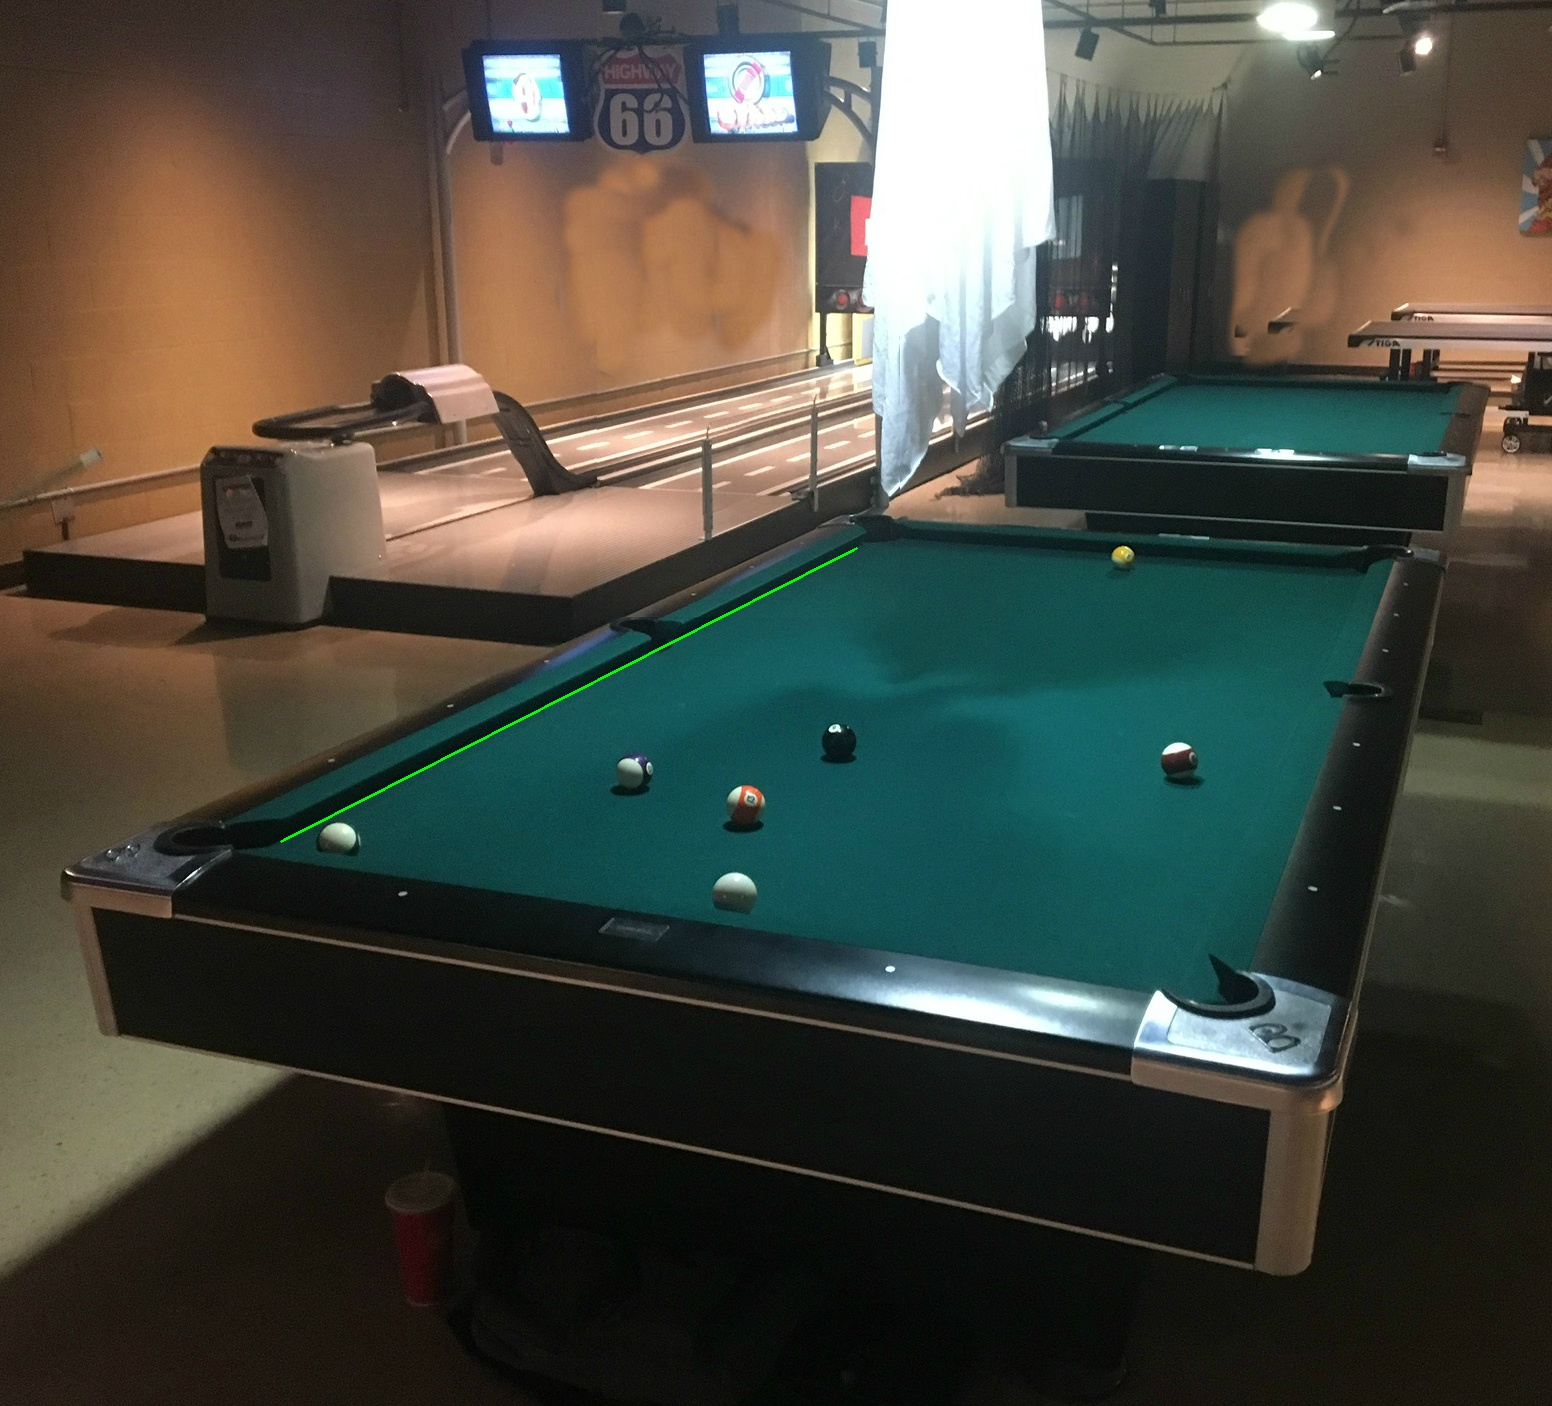
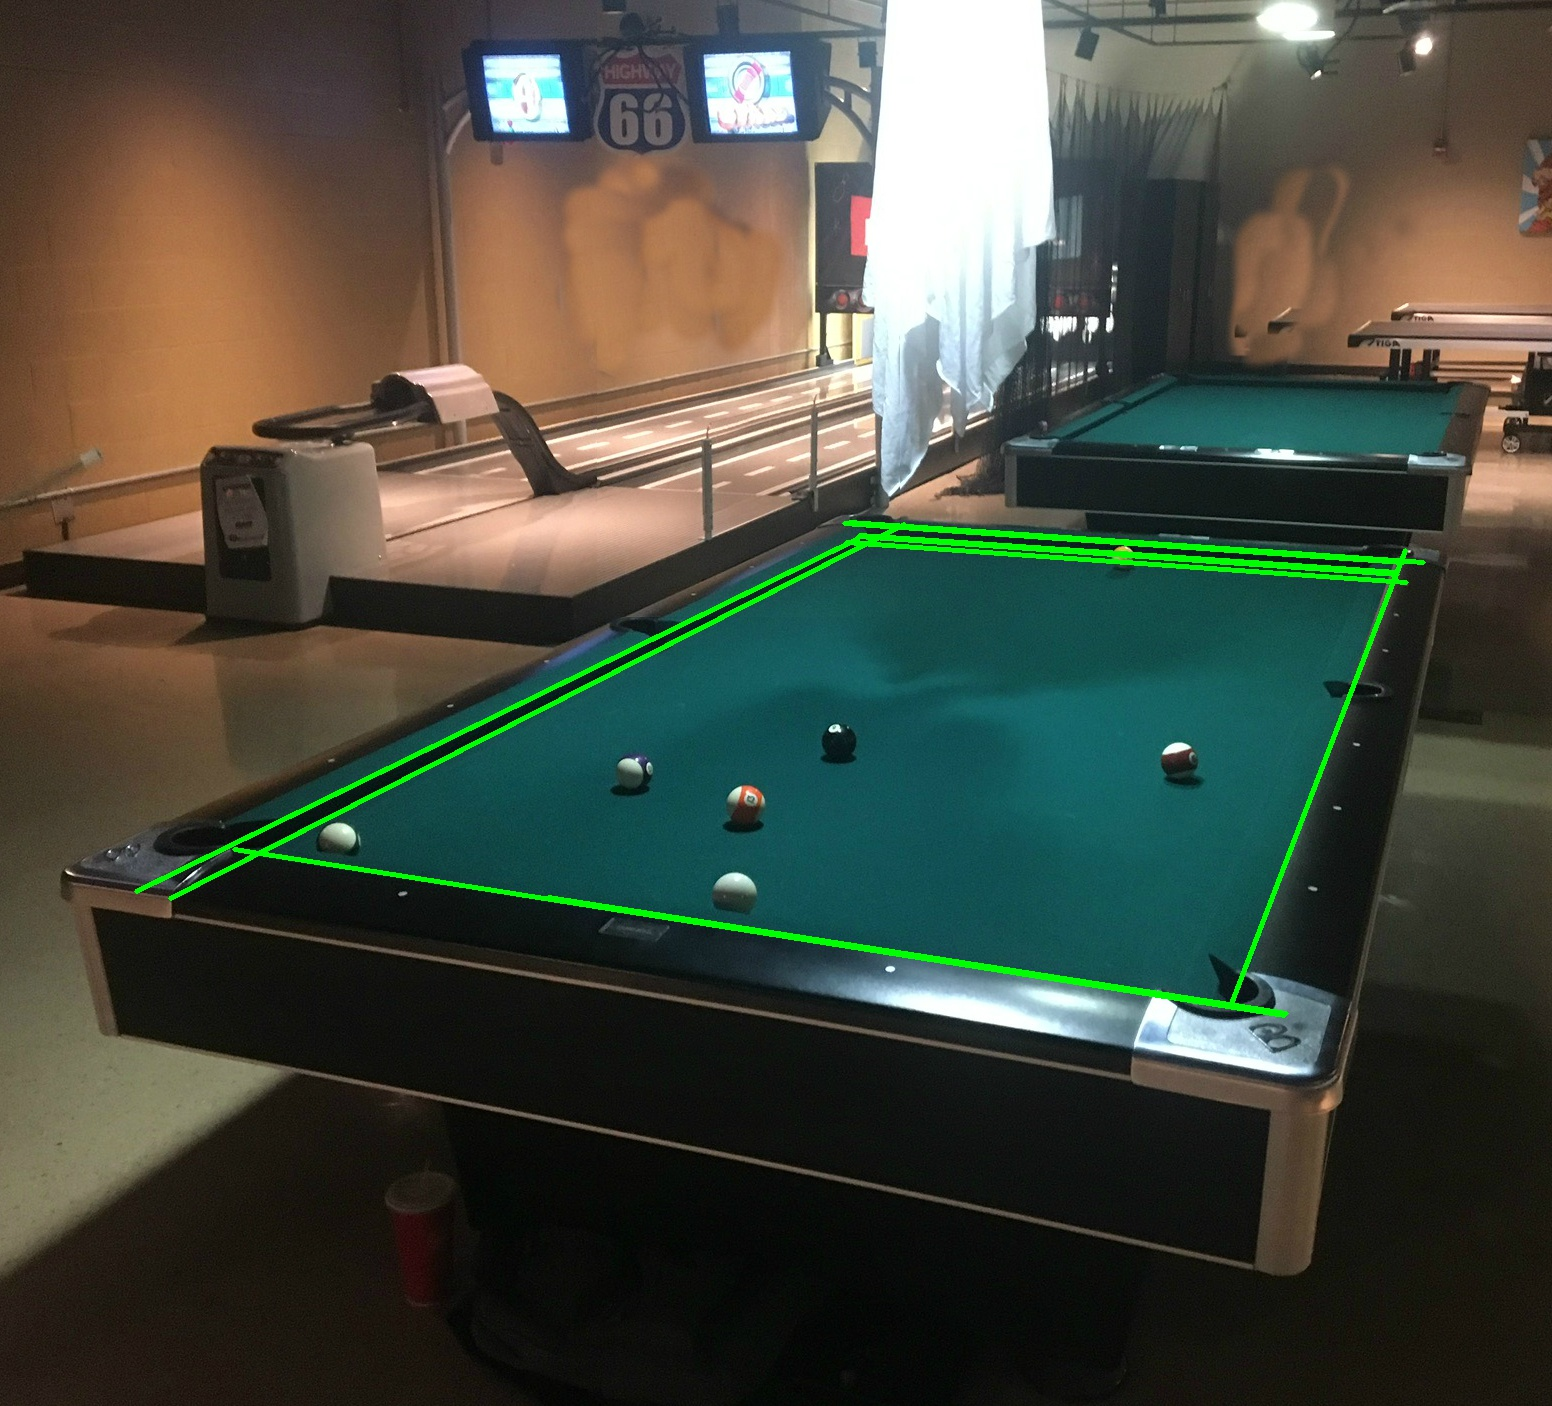
Assignment 4 update

diff --git a/Assignment4.py b/Assignment4.py
@@ -19,8 +19,7 @@ def canny(image):
 def region_of_interest(image):
     mask = np.zeros_like(image)
     # Create a rectangle mask to cover pool table
-    # rectangle = np.array([[50, 500], [1500, 500], [1500, 1300], [50, 1300]])
-    rectangle = np.array([[800, 500], [1450, 500], [1500, 1150], [0, 900]])
+    rectangle = np.array([[850, 520], [1425, 550], [1350, 1020], [110, 905]])
     cv2.fillPoly(mask, [rectangle], 255)
     masked_image = cv2.bitwise_and(image, mask)
     return masked_image
@@ -32,12 +31,30 @@ if __name__ == '__main__':
     edges = canny(img)
     plt.imshow(edges)
     roi = region_of_interest(edges)
-    cv2.imwrite('test.jpg', roi)
-
+    dilation = cv2.dilate(roi, (5, 5), iterations=1)
+    cv2.imwrite('test.jpg', dilation)
     # Image, rho, theta, threshold
-    # lines = cv2.HoughLinesP(edges, 1, np.pi / 180, 150, minLineLength=10, maxLineGap=50)
-    #
-    # for x1, y1, x2, y2 in lines[0]:
-    #     cv2.line(img, (x1, y1), (x2, y2), (0, 255, 0), 2)
-    #
-    # cv2.imwrite("linesDetected.jpg", img)
+    lines = cv2.HoughLinesP(dilation, 2, np.pi / 180, 340, minLineLength=450, maxLineGap=200)
+
+    line_image = img.copy()
+    if lines is not None:
+        for line in lines:
+            x1, y1, x2, y2 = line.reshape(4)
+            cv2.line(line_image, (x1, y1), (x2, y2), (0, 255, 0), 3)
+
+    cv2.imwrite("linesDetected.jpg", line_image)
+
+    circle_image = img.copy()
+    circles = cv2.HoughCircles(dilation, cv2.HOUGH_GRADIENT, 1, 5, param1=50, param2=30, minRadius=0, maxRadius=0)
+
+    # ensure at least some circles were found
+    if circles is not None:
+        # convert the (x, y) coordinates and radius of the circles to integers
+        circles = np.round(circles[0, :]).astype("int")
+        # loop over the (x, y) coordinates and radius of the circles
+        for (x, y, r) in circles:
+            # corresponding to the center of the circle
+            cv2.circle(circle_image, (x, y), r, (0, 255, 0), 4)
+
+    cv2.imwrite("circle.jpg", circle_image)
+
